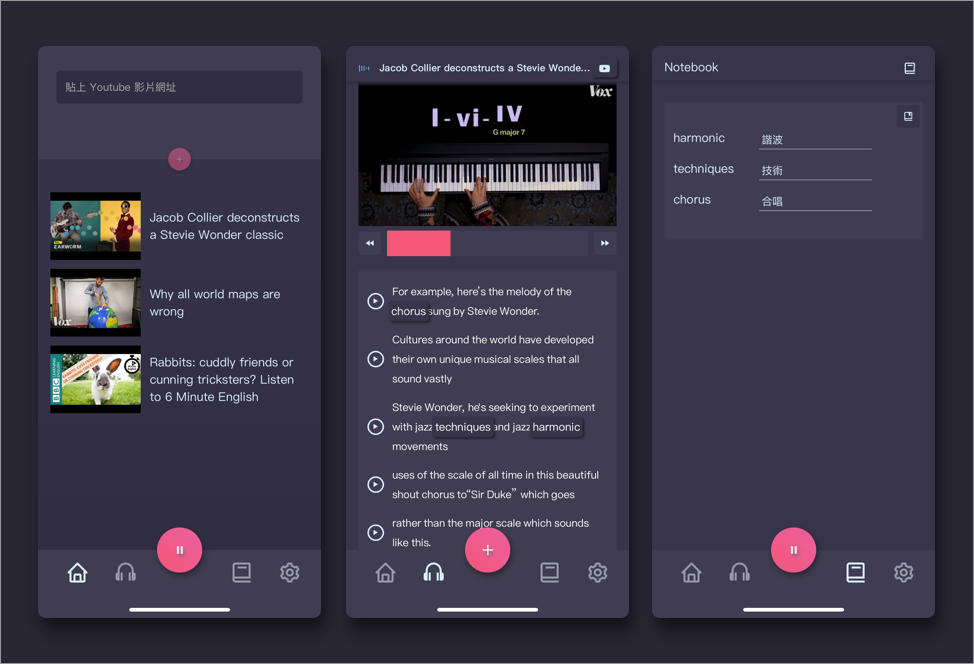
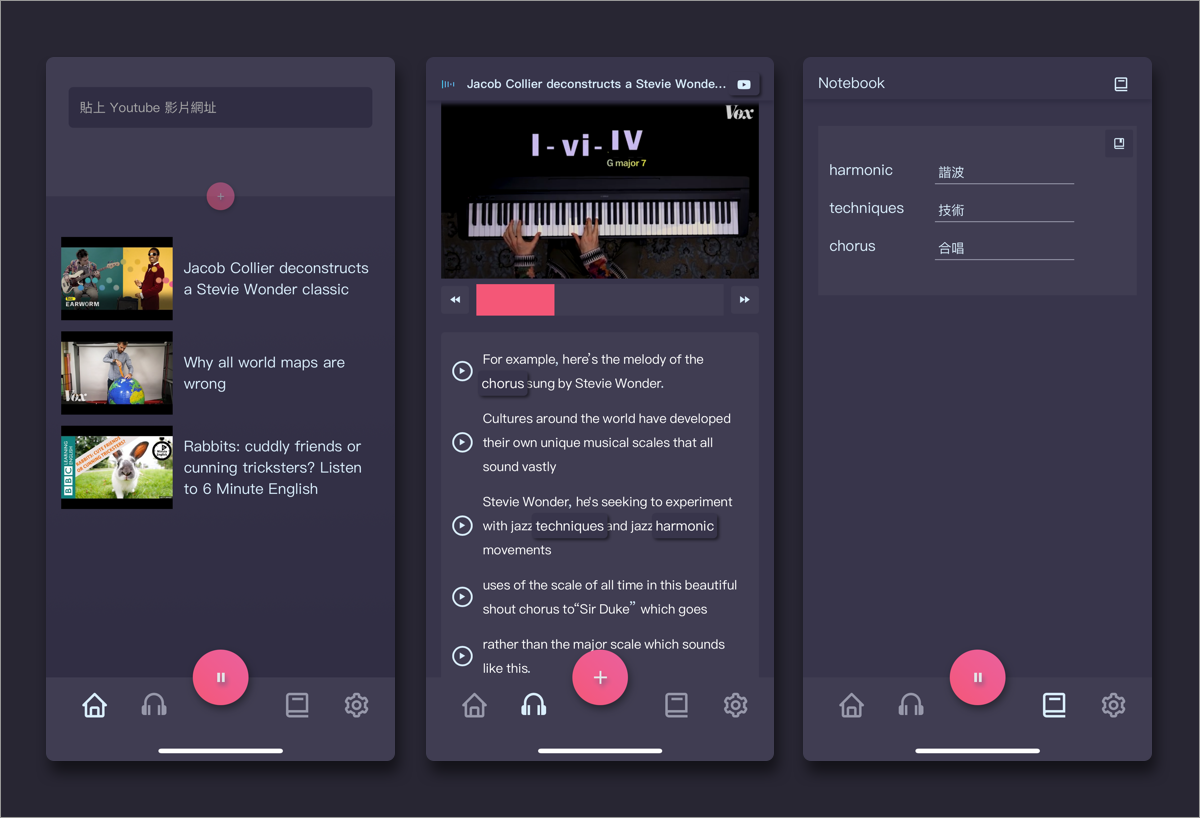
Update images for large size, and update profile's content.

diff --git a/readme.md b/readme.md
@@ -1,5 +1,5 @@
 # Profile
-Hi，我是 Glenn，前端工程師經驗 3 年，具備網頁前後端開發能力，擅長使用 React 框架進行前端開發，並且使用 PHP Laravel 作後端開發。同時具備網頁切版基礎能力與網頁設計經驗，能夠處理各式網頁的版型開發。業餘時間會持續技術進修，並且開發自己的 Side Project。
+Hi，我是 Glenn，前端工程師經驗 3 年，具備網頁前後端開發能力，擅長使用 React 框架進行前端開發，並且使用 PHP Laravel 作後端開發。我有 6 年的網頁相關工作資歷，熟悉完整的網頁開發流程與協作分工，並具備網頁切版能力與網頁設計經驗，能夠處理各式網頁的版型開發。業餘時間會持續技術進修，並且開發自己的 Side Project。
 
 ## 經歷
 - 2015.9 - 2016.10 華瑞資訊網頁設計公司 - 網頁設計師
@@ -39,7 +39,7 @@ Hi，我是 Glenn，前端工程師經驗 3 年，具備網頁前後端開發能
 ### 今晚，我們一起吃塑膠 [Link](http://pnn.pts.org.tw/yumyum/)
 ![塑膠](https://github.com/GlennJong/porfolio/blob/master/images/pnn.png?raw=true "今晚，我們一起吃塑膠")
 
-這個專案是公視的海洋塑膠微粒的議題型網站，以互動遊戲讓使用者理解塑膠微粒的環保議題。
+公視的海洋塑膠微粒的議題型網站，以互動遊戲讓使用者理解塑膠微粒的環保議題。
 在這個專案中，我負責執行前端頁面與遊戲開發。我選擇使用 Vue 作為遊戲的開發框架，能夠有方便的管理遊戲進程、音效與遊戲對話輪播。
 
 
@@ -48,7 +48,7 @@ Hi，我是 Glenn，前端工程師經驗 3 年，具備網頁前後端開發能
 ### 有偶設計官網 [Link](https://yoodesign.com.tw/)
 ![有偶](https://github.com/GlennJong/porfolio/blob/master/images/ncdr.png?raw=true "yoodesign")
 
-在有偶設計的官網開發，我同時負責前端與後端開發。
+有偶設計的官網開發，在這項專案中，我同時負責前端與後端開發。
 首頁希望以「深入探索」的互動使瀏覽網站的體驗更有趣，使用者可以透過捲軸捲動來「挖掘」有偶設計的精選作品，在技術上使用監聽捲軸的方式來驅動整個互動體驗。
 前端使用 React 進行開發，React 提供 Hook 功能，能夠加速開發並且有效管理特效的狀態。
 後端使用 PHP + Laravel，Laravel 提供許多快速便捷的指令產出後端架構，前端工程師也能快速上手。
@@ -58,7 +58,7 @@ Hi，我是 Glenn，前端工程師經驗 3 年，具備網頁前後端開發能
 ### 簡訊設計官網 [Link](https://www.simpleinfo.cc/)
 ![簡訊](https://github.com/GlennJong/porfolio/blob/master/images/simpleinfo.gif?raw=true "simpleinfo")
 
-這是公司自己的案子，需要翻新久久未更新的官網，我負責前端開發。
+公司內部的專案，需要翻新久久未更新的官網，我負責網頁的前端開發。
 其中較為出色得地方是，前端需要處理首頁的橫向操作瀏覽方式，因此需要自製新的捲軸功能，是一項有趣開發項目。
 另外，開發團隊使用 graphQL 進行前後端串接，不同於過去 PHP API 的串接方式，graphQL 提供前端工程師更便利的使用方式，而不需要親自處理後端的 Model 部分。
 
@@ -68,7 +68,7 @@ Hi，我是 Glenn，前端工程師經驗 3 年，具備網頁前後端開發能
 ### YT Listener [Link](http://learn.glenn.tw/)
 ![yt](https://github.com/GlennJong/porfolio/blob/master/images/yt.png?raw=true "ytlistener")
 
-這是我練習英聽做的 Side Project，能夠播放 Youtube 影片並且串接其英文字幕，能夠在播放過程隨時註記需要重複收聽的句子，並且可記錄生字並且收錄在單字本中。
+為了練習英聽做的 Side Project，能夠播放 Youtube 影片並且串接其英文字幕，能夠在播放過程隨時註記需要重複收聽的句子，並且可記錄生字並且收錄在單字本中。
 這個專案是純前端的專案，資料儲存交給 local storage 處理。
 專案以 React 框架開發，透過各種 Youtube 提供的 API 獲取影片的字幕內容，並且串接了 Microsoft Azure 的翻譯 API 來處理生字中譯功能。並使用 Redux 負責跨元件的狀態管理。
 
